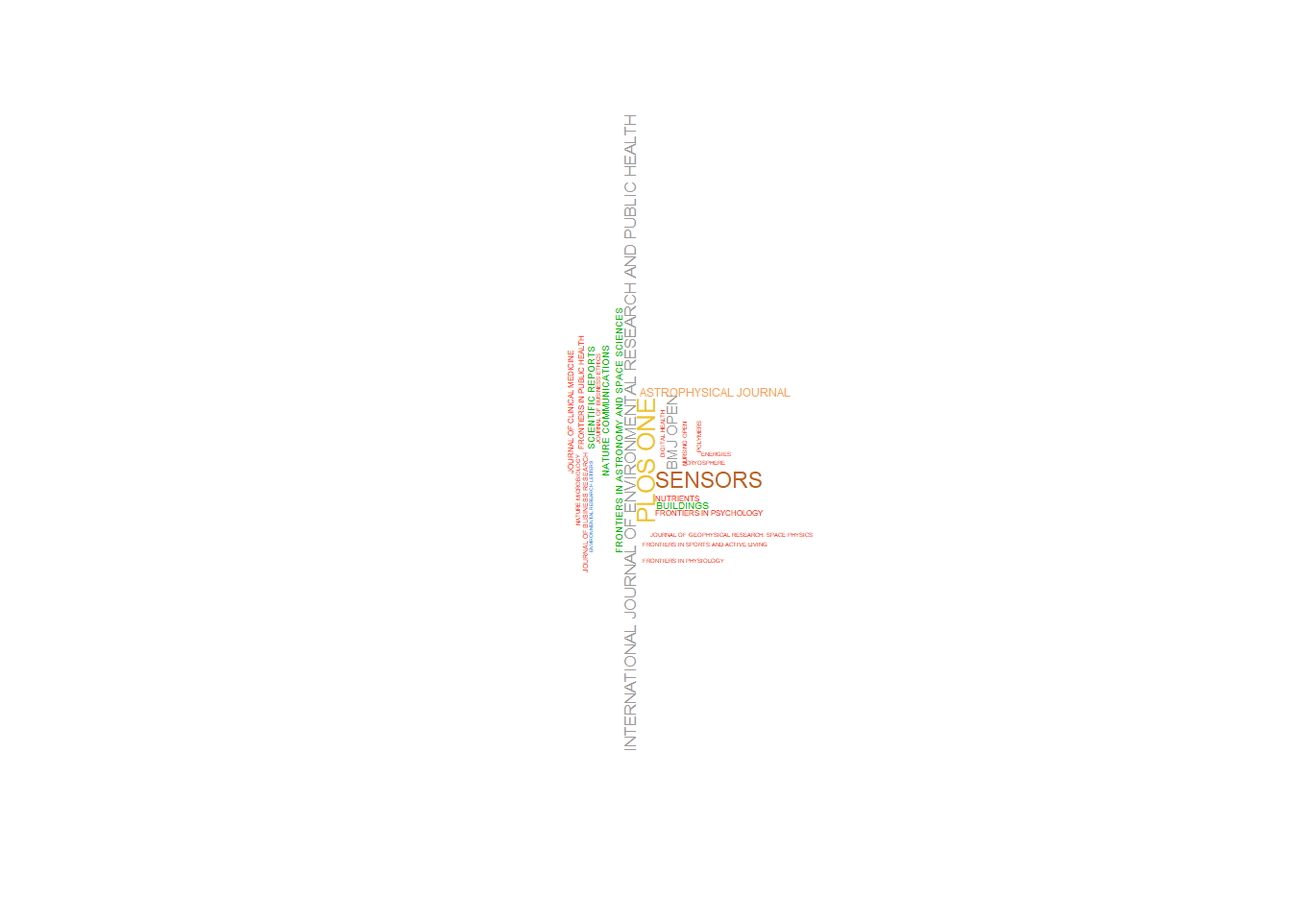
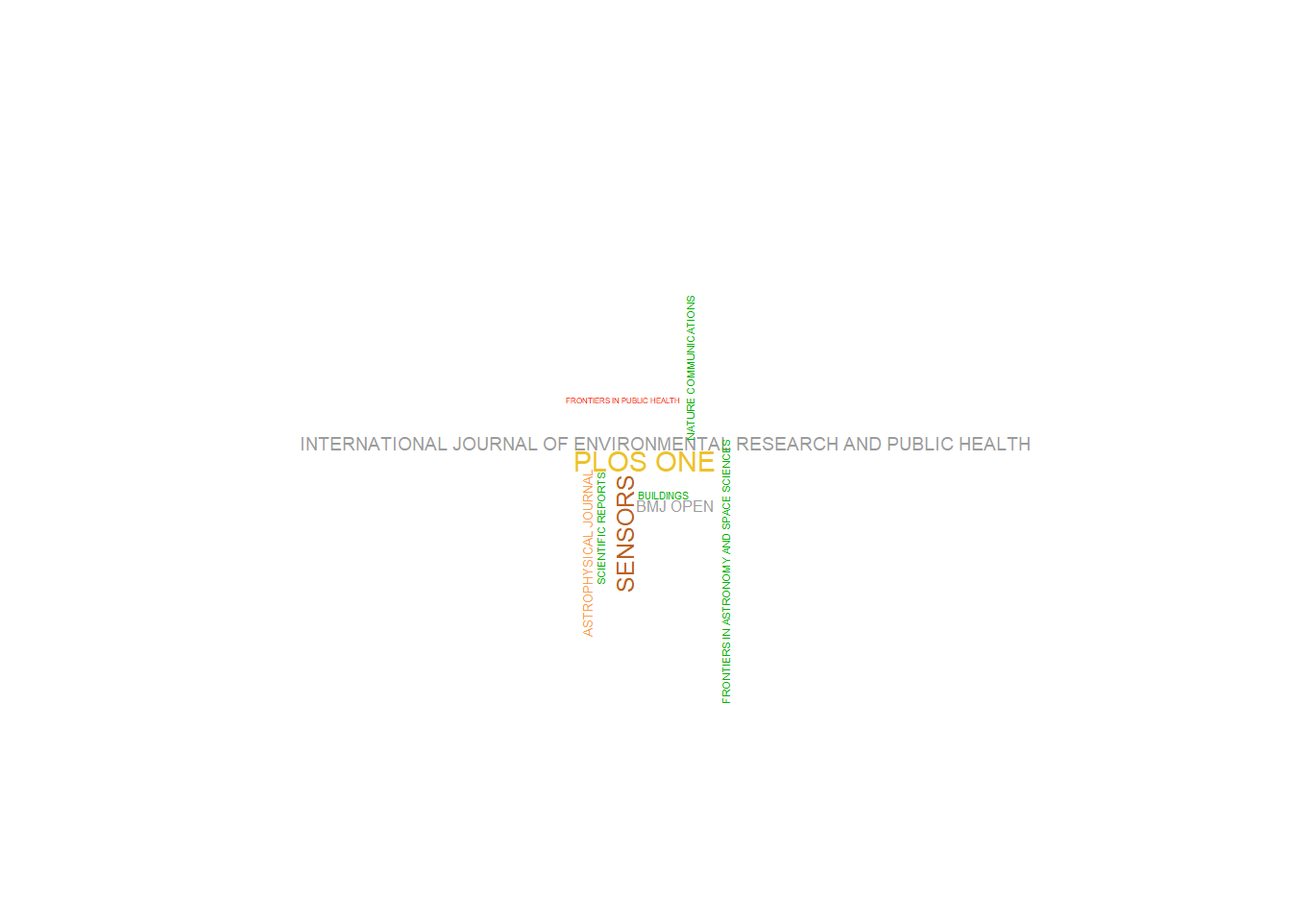
Editing wordclouds etc.

Changed region(s): [[0.2188, 0.2188, 0.8125, 0.6875], [0.4688, 0.6875, 0.5, 0.8125], [0.4688, 0.1562, 0.5, 0.1875]]

diff --git a/docs/Word Clouds.html b/docs/Word Clouds.html
@@ -178,7 +178,7 @@ code span.wa { color: #60a0b0; font-weight: bold; font-style: italic; } /* Warni
       <div>
       <div class="quarto-title-meta-heading">Modified</div>
       <div class="quarto-title-meta-contents">
-        <p class="date-modified">May 16, 2023</p>
+        <p class="date-modified">September 4, 2023</p>
       </div>
     </div>
       
@@ -242,6 +242,16 @@ code span.wa { color: #60a0b0; font-weight: bold; font-style: italic; } /* Warni
           <li class="sidebar-item">
   <div class="sidebar-item-container"> 
   <a href="./Network Attributes and Visualisations.html" class="sidebar-item-text sidebar-link">Network Attributes and Visualisations</a>
+  </div>
+</li>
+          <li class="sidebar-item">
+  <div class="sidebar-item-container"> 
+  <a href="./PLOS and OSF.html" class="sidebar-item-text sidebar-link">PLOS and OSF</a>
+  </div>
+</li>
+          <li class="sidebar-item">
+  <div class="sidebar-item-container"> 
+  <a href="./Description.html" class="sidebar-item-text sidebar-link">Summary</a>
   </div>
 </li>
       </ul>
@@ -413,7 +423,7 @@ code span.wa { color: #60a0b0; font-weight: bold; font-style: italic; } /* Warni
 <div class="sourceCode cell-code" id="cb3"><pre class="sourceCode r code-with-copy"><code class="sourceCode r"><span id="cb3-1"><a href="#cb3-1" aria-hidden="true" tabindex="-1"></a><span class="fu">set.seed</span>(<span class="dv">1404</span>)</span>
 <span id="cb3-2"><a href="#cb3-2" aria-hidden="true" tabindex="-1"></a></span>
 <span id="cb3-3"><a href="#cb3-3" aria-hidden="true" tabindex="-1"></a>DF_SO_table_all_oa_sorted <span class="ot">&lt;-</span> <span class="fu">as.data.frame</span>(SO_table_all_oa_sorted)</span>
-<span id="cb3-4"><a href="#cb3-4" aria-hidden="true" tabindex="-1"></a>wourdcloud_green_publications<span class="ot">&lt;-</span> <span class="fu">wordcloud</span>(<span class="at">words =</span> DF_SO_table_all_oa_sorted<span class="sc">$</span>Var1, <span class="at">freq =</span> DF_SO_table_all_oa_sorted<span class="sc">$</span>Freq, <span class="at">min.freq =</span> <span class="dv">1</span>, <span class="at">max.words=</span><span class="dv">25</span>, <span class="at">random.order=</span><span class="cn">FALSE</span>, <span class="at">scale=</span><span class="fu">c</span>(<span class="fl">1.2</span>,<span class="fl">0.05</span>), <span class="at">rot.per=</span><span class="fl">0.35</span>, <span class="at">colors =</span> <span class="fu">piratepal</span>(<span class="st">"xmen"</span>)) <span class="do">##Just the TOP 25</span></span></code><button title="Copy to Clipboard" class="code-copy-button"><i class="bi"></i></button></pre></div>
+<span id="cb3-4"><a href="#cb3-4" aria-hidden="true" tabindex="-1"></a>wordcloud_all_oa_publications<span class="ot">&lt;-</span> <span class="fu">wordcloud</span>(<span class="at">words =</span> DF_SO_table_all_oa_sorted<span class="sc">$</span>Var1, <span class="at">freq =</span> DF_SO_table_all_oa_sorted<span class="sc">$</span>Freq, <span class="at">min.freq =</span> <span class="dv">1</span>, <span class="at">max.words=</span><span class="dv">10</span>, <span class="at">random.order=</span><span class="cn">FALSE</span>, <span class="at">scale=</span><span class="fu">c</span>(<span class="fl">1.5</span>,<span class="fl">0.05</span>), <span class="at">rot.per=</span><span class="fl">0.35</span>, <span class="at">colors =</span> <span class="fu">piratepal</span>(<span class="st">"xmen"</span>)) <span class="do">##Just the TOP 10</span></span></code><button title="Copy to Clipboard" class="code-copy-button"><i class="bi"></i></button></pre></div>
 <div class="cell-output-display">
 <p><img src="Word-Clouds_files/figure-html/unnamed-chunk-22-1.png" class="img-fluid" width="672"></p>
 </div>
@@ -424,7 +434,7 @@ code span.wa { color: #60a0b0; font-weight: bold; font-style: italic; } /* Warni
 <h3 class="anchored" data-anchor-id="green"><strong>Green</strong></h3>
 <div class="cell">
 <div class="sourceCode cell-code" id="cb5"><pre class="sourceCode r code-with-copy"><code class="sourceCode r"><span id="cb5-1"><a href="#cb5-1" aria-hidden="true" tabindex="-1"></a>DF_SO_table_green_sorted <span class="ot">&lt;-</span> <span class="fu">as.data.frame</span>(SO_table_green_sorted)</span>
-<span id="cb5-2"><a href="#cb5-2" aria-hidden="true" tabindex="-1"></a>wourdcloud_green_publications<span class="ot">&lt;-</span> <span class="fu">wordcloud</span>(<span class="at">words =</span> DF_SO_table_green_sorted<span class="sc">$</span>Var1, <span class="at">freq =</span> DF_SO_table_green_sorted<span class="sc">$</span>Freq, <span class="at">min.freq =</span> <span class="dv">1</span>, <span class="at">max.words=</span><span class="dv">25</span>, <span class="at">random.order=</span><span class="cn">FALSE</span>, <span class="at">scale=</span><span class="fu">c</span>(<span class="fl">1.2</span>,<span class="fl">0.05</span>), <span class="at">rot.per=</span><span class="fl">0.35</span>, <span class="at">colors =</span> <span class="fu">piratepal</span>(<span class="st">"xmen"</span>)) <span class="do">##Just the TOP 25</span></span></code><button title="Copy to Clipboard" class="code-copy-button"><i class="bi"></i></button></pre></div>
+<span id="cb5-2"><a href="#cb5-2" aria-hidden="true" tabindex="-1"></a>wourdcloud_green_publications<span class="ot">&lt;-</span> <span class="fu">wordcloud</span>(<span class="at">words =</span> DF_SO_table_green_sorted<span class="sc">$</span>Var1, <span class="at">freq =</span> DF_SO_table_green_sorted<span class="sc">$</span>Freq, <span class="at">min.freq =</span> <span class="dv">1</span>, <span class="at">max.words=</span><span class="dv">10</span>, <span class="at">random.order=</span><span class="cn">FALSE</span>, <span class="at">scale=</span><span class="fu">c</span>(<span class="fl">1.3</span>,<span class="fl">0.05</span>), <span class="at">rot.per=</span><span class="fl">0.35</span>, <span class="at">colors =</span> <span class="fu">piratepal</span>(<span class="st">"xmen"</span>)) <span class="do">##Just the TOP 10</span></span></code><button title="Copy to Clipboard" class="code-copy-button"><i class="bi"></i></button></pre></div>
 <div class="cell-output-display">
 <p><img src="Word-Clouds_files/figure-html/unnamed-chunk-23-1.png" class="img-fluid" width="672"></p>
 </div>
@@ -435,7 +445,7 @@ code span.wa { color: #60a0b0; font-weight: bold; font-style: italic; } /* Warni
 <h3 class="anchored" data-anchor-id="green-final"><strong>Green Final</strong></h3>
 <div class="cell">
 <div class="sourceCode cell-code" id="cb7"><pre class="sourceCode r code-with-copy"><code class="sourceCode r"><span id="cb7-1"><a href="#cb7-1" aria-hidden="true" tabindex="-1"></a>DF_SO_table_green_final_sorted <span class="ot">&lt;-</span> <span class="fu">as.data.frame</span>(SO_table_green_final_sorted)</span>
-<span id="cb7-2"><a href="#cb7-2" aria-hidden="true" tabindex="-1"></a>wourdcloud_green_final_publications<span class="ot">&lt;-</span> <span class="fu">wordcloud</span>(<span class="at">words =</span> DF_SO_table_green_final_sorted<span class="sc">$</span>Var1, <span class="at">freq =</span> DF_SO_table_green_final_sorted<span class="sc">$</span>Freq, <span class="at">min.freq =</span> <span class="dv">1</span>, <span class="at">max.words=</span><span class="dv">25</span>, <span class="at">random.order=</span><span class="cn">FALSE</span>, <span class="at">scale=</span><span class="fu">c</span>(<span class="fl">0.8</span>,<span class="fl">0.05</span>), <span class="at">rot.per=</span><span class="fl">0.35</span>, <span class="at">colors =</span> <span class="fu">piratepal</span>(<span class="st">"xmen"</span>)) <span class="do">##Just the TOP 25</span></span></code><button title="Copy to Clipboard" class="code-copy-button"><i class="bi"></i></button></pre></div>
+<span id="cb7-2"><a href="#cb7-2" aria-hidden="true" tabindex="-1"></a>wourdcloud_green_final_publications<span class="ot">&lt;-</span> <span class="fu">wordcloud</span>(<span class="at">words =</span> DF_SO_table_green_final_sorted<span class="sc">$</span>Var1, <span class="at">freq =</span> DF_SO_table_green_final_sorted<span class="sc">$</span>Freq, <span class="at">min.freq =</span> <span class="dv">1</span>, <span class="at">max.words=</span><span class="dv">10</span>, <span class="at">random.order=</span><span class="cn">FALSE</span>, <span class="at">scale=</span><span class="fu">c</span>(<span class="fl">0.9</span>,<span class="fl">0.05</span>), <span class="at">rot.per=</span><span class="fl">0.35</span>, <span class="at">colors =</span> <span class="fu">piratepal</span>(<span class="st">"xmen"</span>)) <span class="do">##Just the TOP 10</span></span></code><button title="Copy to Clipboard" class="code-copy-button"><i class="bi"></i></button></pre></div>
 <div class="cell-output-display">
 <p><img src="Word-Clouds_files/figure-html/unnamed-chunk-24-1.png" class="img-fluid" width="672"></p>
 </div>
@@ -446,7 +456,7 @@ code span.wa { color: #60a0b0; font-weight: bold; font-style: italic; } /* Warni
 <h3 class="anchored" data-anchor-id="green-accepted"><strong>Green Accepted</strong></h3>
 <div class="cell">
 <div class="sourceCode cell-code" id="cb9"><pre class="sourceCode r code-with-copy"><code class="sourceCode r"><span id="cb9-1"><a href="#cb9-1" aria-hidden="true" tabindex="-1"></a>DF_SO_table_green_accepted_sorted <span class="ot">&lt;-</span> <span class="fu">as.data.frame</span>(SO_table_green_accepted_sorted)</span>
-<span id="cb9-2"><a href="#cb9-2" aria-hidden="true" tabindex="-1"></a>wourdcloud_green_accepted_publications<span class="ot">&lt;-</span> <span class="fu">wordcloud</span>(<span class="at">words =</span> DF_SO_table_green_accepted_sorted<span class="sc">$</span>Var1, <span class="at">freq =</span> DF_SO_table_green_accepted_sorted<span class="sc">$</span>Freq, <span class="at">min.freq =</span> <span class="dv">1</span>, <span class="at">max.words=</span><span class="dv">25</span>, <span class="at">random.order=</span><span class="cn">FALSE</span>, <span class="at">scale=</span><span class="fu">c</span>(<span class="fl">0.8</span>,<span class="fl">0.05</span>), <span class="at">rot.per=</span><span class="fl">0.35</span>, <span class="at">colors =</span> <span class="fu">piratepal</span>(<span class="st">"xmen"</span>)) <span class="do">##Just the TOP 25</span></span></code><button title="Copy to Clipboard" class="code-copy-button"><i class="bi"></i></button></pre></div>
+<span id="cb9-2"><a href="#cb9-2" aria-hidden="true" tabindex="-1"></a>wourdcloud_green_accepted_publications<span class="ot">&lt;-</span> <span class="fu">wordcloud</span>(<span class="at">words =</span> DF_SO_table_green_accepted_sorted<span class="sc">$</span>Var1, <span class="at">freq =</span> DF_SO_table_green_accepted_sorted<span class="sc">$</span>Freq, <span class="at">min.freq =</span> <span class="dv">1</span>, <span class="at">max.words=</span><span class="dv">10</span>, <span class="at">random.order=</span><span class="cn">FALSE</span>, <span class="at">scale=</span><span class="fu">c</span>(<span class="fl">0.8</span>,<span class="fl">0.05</span>), <span class="at">rot.per=</span><span class="fl">0.35</span>, <span class="at">colors =</span> <span class="fu">piratepal</span>(<span class="st">"xmen"</span>)) <span class="do">##Just the TOP 10</span></span></code><button title="Copy to Clipboard" class="code-copy-button"><i class="bi"></i></button></pre></div>
 <div class="cell-output-display">
 <p><img src="Word-Clouds_files/figure-html/unnamed-chunk-25-1.png" class="img-fluid" width="672"></p>
 </div>
@@ -457,7 +467,7 @@ code span.wa { color: #60a0b0; font-weight: bold; font-style: italic; } /* Warni
 <h3 class="anchored" data-anchor-id="not-green"><strong>Not Green</strong></h3>
 <div class="cell">
 <div class="sourceCode cell-code" id="cb11"><pre class="sourceCode r code-with-copy"><code class="sourceCode r"><span id="cb11-1"><a href="#cb11-1" aria-hidden="true" tabindex="-1"></a>DF_SO_table_not_green_sorted <span class="ot">&lt;-</span> <span class="fu">as.data.frame</span>(SO_table_not_green_sorted)</span>
-<span id="cb11-2"><a href="#cb11-2" aria-hidden="true" tabindex="-1"></a>wourdcloud_not_green_publications<span class="ot">&lt;-</span> <span class="fu">wordcloud</span>(<span class="at">words =</span> DF_SO_table_not_green_sorted<span class="sc">$</span>Var1, <span class="at">freq =</span> DF_SO_table_not_green_sorted<span class="sc">$</span>Freq, <span class="at">min.freq =</span> <span class="dv">1</span>, <span class="at">max.words=</span><span class="dv">25</span>, <span class="at">random.order=</span><span class="cn">FALSE</span>, <span class="at">scale=</span><span class="fu">c</span>(.<span class="dv">25</span>,<span class="fl">0.25</span>), <span class="at">rot.per=</span><span class="fl">0.35</span>, <span class="at">colors =</span> <span class="fu">piratepal</span>(<span class="st">"xmen"</span>)) <span class="do">##Just the TOP 25</span></span></code><button title="Copy to Clipboard" class="code-copy-button"><i class="bi"></i></button></pre></div>
+<span id="cb11-2"><a href="#cb11-2" aria-hidden="true" tabindex="-1"></a>wourdcloud_not_green_publications<span class="ot">&lt;-</span> <span class="fu">wordcloud</span>(<span class="at">words =</span> DF_SO_table_not_green_sorted<span class="sc">$</span>Var1, <span class="at">freq =</span> DF_SO_table_not_green_sorted<span class="sc">$</span>Freq, <span class="at">min.freq =</span> <span class="dv">1</span>, <span class="at">max.words=</span><span class="dv">10</span>, <span class="at">random.order=</span><span class="cn">FALSE</span>, <span class="at">scale=</span><span class="fu">c</span>(.<span class="dv">25</span>,<span class="fl">0.25</span>), <span class="at">rot.per=</span><span class="fl">0.35</span>, <span class="at">colors =</span> <span class="fu">piratepal</span>(<span class="st">"xmen"</span>)) <span class="do">##Just the TOP 10</span></span></code><button title="Copy to Clipboard" class="code-copy-button"><i class="bi"></i></button></pre></div>
 <div class="cell-output-display">
 <p><img src="Word-Clouds_files/figure-html/unnamed-chunk-26-1.png" class="img-fluid" width="672"></p>
 </div>
@@ -471,7 +481,7 @@ code span.wa { color: #60a0b0; font-weight: bold; font-style: italic; } /* Warni
 <h3 class="anchored" data-anchor-id="all-open-access-1"><strong>All Open Access</strong></h3>
 <div class="cell">
 <div class="sourceCode cell-code" id="cb13"><pre class="sourceCode r code-with-copy"><code class="sourceCode r"><span id="cb13-1"><a href="#cb13-1" aria-hidden="true" tabindex="-1"></a>df_corr_table_all_oa_sorted <span class="ot">&lt;-</span> <span class="fu">as.data.frame</span>(corr_table_all_oa_sorted)</span>
-<span id="cb13-2"><a href="#cb13-2" aria-hidden="true" tabindex="-1"></a>wourdcloud_all_oa_publications<span class="ot">&lt;-</span> <span class="fu">wordcloud</span>(<span class="at">words =</span> df_corr_table_all_oa_sorted<span class="sc">$</span>Var1, <span class="at">freq =</span> df_corr_table_all_oa_sorted<span class="sc">$</span>Freq, <span class="at">min.freq =</span> <span class="dv">1</span>, <span class="at">max.words=</span><span class="dv">50</span>, <span class="at">random.order=</span><span class="cn">FALSE</span>, <span class="at">scale=</span><span class="fu">c</span>(<span class="dv">1</span>, <span class="dv">1</span>), <span class="at">rot.per=</span><span class="fl">0.35</span>, <span class="at">colors =</span> <span class="fu">piratepal</span>(<span class="st">"xmen"</span>)) <span class="do">##Just the TOP 50</span></span></code><button title="Copy to Clipboard" class="code-copy-button"><i class="bi"></i></button></pre></div>
+<span id="cb13-2"><a href="#cb13-2" aria-hidden="true" tabindex="-1"></a>wourdcloud_all_oa_publications<span class="ot">&lt;-</span> <span class="fu">wordcloud</span>(<span class="at">words =</span> df_corr_table_all_oa_sorted<span class="sc">$</span>Var1, <span class="at">freq =</span> df_corr_table_all_oa_sorted<span class="sc">$</span>Freq, <span class="at">min.freq =</span> <span class="dv">1</span>, <span class="at">max.words=</span><span class="dv">10</span>, <span class="at">random.order=</span><span class="cn">FALSE</span>, <span class="at">scale=</span><span class="fu">c</span>(<span class="dv">1</span>, <span class="dv">1</span>), <span class="at">rot.per=</span><span class="fl">0.35</span>, <span class="at">colors =</span> <span class="fu">piratepal</span>(<span class="st">"xmen"</span>)) <span class="do">##Just the TOP 10</span></span></code><button title="Copy to Clipboard" class="code-copy-button"><i class="bi"></i></button></pre></div>
 <div class="cell-output-display">
 <p><img src="Word-Clouds_files/figure-html/unnamed-chunk-27-1.png" class="img-fluid" width="672"></p>
 </div>
@@ -481,7 +491,7 @@ code span.wa { color: #60a0b0; font-weight: bold; font-style: italic; } /* Warni
 <h3 class="anchored" data-anchor-id="green-1"><strong>Green</strong></h3>
 <div class="cell">
 <div class="sourceCode cell-code" id="cb14"><pre class="sourceCode r code-with-copy"><code class="sourceCode r"><span id="cb14-1"><a href="#cb14-1" aria-hidden="true" tabindex="-1"></a>df_corr_table_green_sorted <span class="ot">&lt;-</span> <span class="fu">as.data.frame</span>(corr_table_green_sorted)</span>
-<span id="cb14-2"><a href="#cb14-2" aria-hidden="true" tabindex="-1"></a>wourdcloud_green_publications<span class="ot">&lt;-</span> <span class="fu">wordcloud</span>(<span class="at">words =</span> df_corr_table_green_sorted<span class="sc">$</span>Var1, <span class="at">freq =</span> df_corr_table_green_sorted<span class="sc">$</span>Freq, <span class="at">min.freq =</span> <span class="dv">1</span>, <span class="at">max.words=</span><span class="dv">50</span>, <span class="at">random.order=</span><span class="cn">FALSE</span>, <span class="at">scale=</span><span class="fu">c</span>(<span class="dv">1</span>, <span class="dv">1</span>), <span class="at">rot.per=</span><span class="fl">0.35</span>, <span class="at">colors =</span> <span class="fu">piratepal</span>(<span class="st">"xmen"</span>)) <span class="do">##Just the TOP 50</span></span></code><button title="Copy to Clipboard" class="code-copy-button"><i class="bi"></i></button></pre></div>
+<span id="cb14-2"><a href="#cb14-2" aria-hidden="true" tabindex="-1"></a>wourdcloud_green_publications<span class="ot">&lt;-</span> <span class="fu">wordcloud</span>(<span class="at">words =</span> df_corr_table_green_sorted<span class="sc">$</span>Var1, <span class="at">freq =</span> df_corr_table_green_sorted<span class="sc">$</span>Freq, <span class="at">min.freq =</span> <span class="dv">1</span>, <span class="at">max.words=</span><span class="dv">10</span>, <span class="at">random.order=</span><span class="cn">FALSE</span>, <span class="at">scale=</span><span class="fu">c</span>(<span class="dv">1</span>, <span class="dv">1</span>), <span class="at">rot.per=</span><span class="fl">0.35</span>, <span class="at">colors =</span> <span class="fu">piratepal</span>(<span class="st">"xmen"</span>)) <span class="do">##Just the TOP 10</span></span></code><button title="Copy to Clipboard" class="code-copy-button"><i class="bi"></i></button></pre></div>
 <div class="cell-output-display">
 <p><img src="Word-Clouds_files/figure-html/unnamed-chunk-28-1.png" class="img-fluid" width="672"></p>
 </div>
@@ -491,7 +501,7 @@ code span.wa { color: #60a0b0; font-weight: bold; font-style: italic; } /* Warni
 <h3 class="anchored" data-anchor-id="green-final-1"><strong>Green Final</strong></h3>
 <div class="cell">
 <div class="sourceCode cell-code" id="cb15"><pre class="sourceCode r code-with-copy"><code class="sourceCode r"><span id="cb15-1"><a href="#cb15-1" aria-hidden="true" tabindex="-1"></a>df_corr_table_green_final_sorted <span class="ot">&lt;-</span> <span class="fu">as.data.frame</span>(corr_table_green_final_sorted)</span>
-<span id="cb15-2"><a href="#cb15-2" aria-hidden="true" tabindex="-1"></a>wourdcloud_green_final_publications<span class="ot">&lt;-</span> <span class="fu">wordcloud</span>(<span class="at">words =</span> df_corr_table_green_final_sorted<span class="sc">$</span>Var1, <span class="at">freq =</span> df_corr_table_green_final_sorted<span class="sc">$</span>Freq, <span class="at">min.freq =</span> <span class="dv">1</span>, <span class="at">max.words=</span><span class="dv">50</span>, <span class="at">random.order=</span><span class="cn">FALSE</span>, <span class="at">scale=</span><span class="fu">c</span>(<span class="dv">1</span>, <span class="dv">1</span>), <span class="at">rot.per=</span><span class="fl">0.35</span>, <span class="at">colors =</span> <span class="fu">piratepal</span>(<span class="st">"xmen"</span>)) <span class="do">##Just the TOP 50</span></span></code><button title="Copy to Clipboard" class="code-copy-button"><i class="bi"></i></button></pre></div>
+<span id="cb15-2"><a href="#cb15-2" aria-hidden="true" tabindex="-1"></a>wourdcloud_green_final_publications<span class="ot">&lt;-</span> <span class="fu">wordcloud</span>(<span class="at">words =</span> df_corr_table_green_final_sorted<span class="sc">$</span>Var1, <span class="at">freq =</span> df_corr_table_green_final_sorted<span class="sc">$</span>Freq, <span class="at">min.freq =</span> <span class="dv">1</span>, <span class="at">max.words=</span><span class="dv">10</span>, <span class="at">random.order=</span><span class="cn">FALSE</span>, <span class="at">scale=</span><span class="fu">c</span>(<span class="dv">1</span>, <span class="dv">1</span>), <span class="at">rot.per=</span><span class="fl">0.35</span>, <span class="at">colors =</span> <span class="fu">piratepal</span>(<span class="st">"xmen"</span>)) <span class="do">##Just the TOP 10</span></span></code><button title="Copy to Clipboard" class="code-copy-button"><i class="bi"></i></button></pre></div>
 <div class="cell-output-display">
 <p><img src="Word-Clouds_files/figure-html/unnamed-chunk-29-1.png" class="img-fluid" width="672"></p>
 </div>
@@ -501,7 +511,7 @@ code span.wa { color: #60a0b0; font-weight: bold; font-style: italic; } /* Warni
 <h3 class="anchored" data-anchor-id="green-accepted-1"><strong>Green Accepted</strong></h3>
 <div class="cell">
 <div class="sourceCode cell-code" id="cb16"><pre class="sourceCode r code-with-copy"><code class="sourceCode r"><span id="cb16-1"><a href="#cb16-1" aria-hidden="true" tabindex="-1"></a>df_corr_table_green_accepted_sorted <span class="ot">&lt;-</span> <span class="fu">as.data.frame</span>(corr_table_green_accepted_sorted)</span>
-<span id="cb16-2"><a href="#cb16-2" aria-hidden="true" tabindex="-1"></a>wourdcloud_green_publications<span class="ot">&lt;-</span> <span class="fu">wordcloud</span>(<span class="at">words =</span> df_corr_table_green_accepted_sorted<span class="sc">$</span>Var1, <span class="at">freq =</span> df_corr_table_green_accepted_sorted<span class="sc">$</span>Freq, <span class="at">min.freq =</span> <span class="dv">1</span>, <span class="at">max.words=</span><span class="dv">50</span>, <span class="at">random.order=</span><span class="cn">FALSE</span>, <span class="at">scale=</span><span class="fu">c</span>(<span class="dv">1</span>, <span class="dv">1</span>), <span class="at">rot.per=</span><span class="fl">0.35</span>, <span class="at">colors =</span> <span class="fu">piratepal</span>(<span class="st">"xmen"</span>)) <span class="do">##Just the TOP 50</span></span></code><button title="Copy to Clipboard" class="code-copy-button"><i class="bi"></i></button></pre></div>
+<span id="cb16-2"><a href="#cb16-2" aria-hidden="true" tabindex="-1"></a>wourdcloud_green_publications<span class="ot">&lt;-</span> <span class="fu">wordcloud</span>(<span class="at">words =</span> df_corr_table_green_accepted_sorted<span class="sc">$</span>Var1, <span class="at">freq =</span> df_corr_table_green_accepted_sorted<span class="sc">$</span>Freq, <span class="at">min.freq =</span> <span class="dv">1</span>, <span class="at">max.words=</span><span class="dv">10</span>, <span class="at">random.order=</span><span class="cn">FALSE</span>, <span class="at">scale=</span><span class="fu">c</span>(<span class="dv">1</span>, <span class="dv">1</span>), <span class="at">rot.per=</span><span class="fl">0.35</span>, <span class="at">colors =</span> <span class="fu">piratepal</span>(<span class="st">"xmen"</span>)) <span class="do">##Just the TOP 10</span></span></code><button title="Copy to Clipboard" class="code-copy-button"><i class="bi"></i></button></pre></div>
 <div class="cell-output-display">
 <p><img src="Word-Clouds_files/figure-html/unnamed-chunk-30-1.png" class="img-fluid" width="672"></p>
 </div>
@@ -511,7 +521,7 @@ code span.wa { color: #60a0b0; font-weight: bold; font-style: italic; } /* Warni
 <h3 class="anchored" data-anchor-id="not-green-1"><strong>Not Green</strong></h3>
 <div class="cell">
 <div class="sourceCode cell-code" id="cb17"><pre class="sourceCode r code-with-copy"><code class="sourceCode r"><span id="cb17-1"><a href="#cb17-1" aria-hidden="true" tabindex="-1"></a>df_corr_table_not_green_sorted <span class="ot">&lt;-</span> <span class="fu">as.data.frame</span>(corr_table_not_green_sorted)</span>
-<span id="cb17-2"><a href="#cb17-2" aria-hidden="true" tabindex="-1"></a>wourdcloud_not_green_publications<span class="ot">&lt;-</span> <span class="fu">wordcloud</span>(<span class="at">words =</span> df_corr_table_not_green_sorted<span class="sc">$</span>Var1, <span class="at">freq =</span> df_corr_table_not_green_sorted<span class="sc">$</span>Freq, <span class="at">min.freq =</span> <span class="dv">1</span>, <span class="at">max.words=</span><span class="dv">50</span>, <span class="at">random.order=</span><span class="cn">FALSE</span>, <span class="at">scale=</span><span class="fu">c</span>(<span class="dv">1</span>, <span class="dv">1</span>), <span class="at">rot.per=</span><span class="fl">0.35</span>, <span class="at">colors =</span> <span class="fu">piratepal</span>(<span class="st">"xmen"</span>)) <span class="do">##Just the TOP 50</span></span></code><button title="Copy to Clipboard" class="code-copy-button"><i class="bi"></i></button></pre></div>
+<span id="cb17-2"><a href="#cb17-2" aria-hidden="true" tabindex="-1"></a>wourdcloud_not_green_publications<span class="ot">&lt;-</span> <span class="fu">wordcloud</span>(<span class="at">words =</span> df_corr_table_not_green_sorted<span class="sc">$</span>Var1, <span class="at">freq =</span> df_corr_table_not_green_sorted<span class="sc">$</span>Freq, <span class="at">min.freq =</span> <span class="dv">1</span>, <span class="at">max.words=</span><span class="dv">10</span>, <span class="at">random.order=</span><span class="cn">FALSE</span>, <span class="at">scale=</span><span class="fu">c</span>(<span class="dv">1</span>, <span class="dv">1</span>), <span class="at">rot.per=</span><span class="fl">0.35</span>, <span class="at">colors =</span> <span class="fu">piratepal</span>(<span class="st">"xmen"</span>)) <span class="do">##Just the TOP 10</span></span></code><button title="Copy to Clipboard" class="code-copy-button"><i class="bi"></i></button></pre></div>
 <div class="cell-output-display">
 <p><img src="Word-Clouds_files/figure-html/unnamed-chunk-31-1.png" class="img-fluid" width="672"></p>
 </div>
@@ -528,7 +538,7 @@ code span.wa { color: #60a0b0; font-weight: bold; font-style: italic; } /* Warni
 <span id="cb18-3"><a href="#cb18-3" aria-hidden="true" tabindex="-1"></a>  <span class="fu">count</span>(DE)</span>
 <span id="cb18-4"><a href="#cb18-4" aria-hidden="true" tabindex="-1"></a>all_oa_keywords<span class="ot">&lt;-</span> <span class="fu">na.omit</span>(all_oa_keywords)</span>
 <span id="cb18-5"><a href="#cb18-5" aria-hidden="true" tabindex="-1"></a><span class="fu">colnames</span>(all_oa_keywords)[<span class="dv">2</span>]<span class="ot">&lt;-</span> <span class="st">"Freq"</span></span>
-<span id="cb18-6"><a href="#cb18-6" aria-hidden="true" tabindex="-1"></a>wourdcloud_just_all_oa_keywords<span class="ot">&lt;-</span> <span class="fu">wordcloud</span>(<span class="at">words =</span> all_oa_keywords<span class="sc">$</span>DE, <span class="at">freq =</span> all_oa_keywords<span class="sc">$</span>Freq, <span class="at">min.freq =</span> <span class="dv">1</span>, <span class="at">max.words=</span><span class="dv">50</span>, <span class="at">random.order=</span><span class="cn">FALSE</span>, <span class="at">scale=</span><span class="fu">c</span>(<span class="fl">1.5</span>,<span class="fl">0.25</span>), <span class="at">rot.per=</span><span class="fl">0.35</span>, <span class="at">colors =</span> <span class="fu">piratepal</span>(<span class="st">"xmen"</span>)) <span class="do">##Just the TOP 50</span></span></code><button title="Copy to Clipboard" class="code-copy-button"><i class="bi"></i></button></pre></div>
+<span id="cb18-6"><a href="#cb18-6" aria-hidden="true" tabindex="-1"></a>wourdcloud_just_all_oa_keywords<span class="ot">&lt;-</span> <span class="fu">wordcloud</span>(<span class="at">words =</span> all_oa_keywords<span class="sc">$</span>DE, <span class="at">freq =</span> all_oa_keywords<span class="sc">$</span>Freq, <span class="at">min.freq =</span> <span class="dv">1</span>, <span class="at">max.words=</span><span class="dv">10</span>, <span class="at">random.order=</span><span class="cn">FALSE</span>, <span class="at">scale=</span><span class="fu">c</span>(<span class="fl">1.5</span>,<span class="fl">0.25</span>), <span class="at">rot.per=</span><span class="fl">0.35</span>, <span class="at">colors =</span> <span class="fu">piratepal</span>(<span class="st">"xmen"</span>)) <span class="do">##Just the TOP 10</span></span></code><button title="Copy to Clipboard" class="code-copy-button"><i class="bi"></i></button></pre></div>
 <div class="cell-output-display">
 <p><img src="Word-Clouds_files/figure-html/unnamed-chunk-32-1.png" class="img-fluid" width="672"></p>
 </div>
@@ -542,7 +552,7 @@ code span.wa { color: #60a0b0; font-weight: bold; font-style: italic; } /* Warni
 <span id="cb19-3"><a href="#cb19-3" aria-hidden="true" tabindex="-1"></a>  <span class="fu">count</span>(DE)</span>
 <span id="cb19-4"><a href="#cb19-4" aria-hidden="true" tabindex="-1"></a>green_keywords<span class="ot">&lt;-</span> <span class="fu">na.omit</span>(green_keywords)</span>
 <span id="cb19-5"><a href="#cb19-5" aria-hidden="true" tabindex="-1"></a><span class="fu">colnames</span>(green_keywords)[<span class="dv">2</span>]<span class="ot">&lt;-</span> <span class="st">"Freq"</span></span>
-<span id="cb19-6"><a href="#cb19-6" aria-hidden="true" tabindex="-1"></a>wourdcloud_just_green_keywords<span class="ot">&lt;-</span> <span class="fu">wordcloud</span>(<span class="at">words =</span> green_keywords<span class="sc">$</span>DE, <span class="at">freq =</span> green_keywords<span class="sc">$</span>Freq, <span class="at">min.freq =</span> <span class="dv">1</span>, <span class="at">max.words=</span><span class="dv">50</span>, <span class="at">random.order=</span><span class="cn">FALSE</span>, <span class="at">scale=</span><span class="fu">c</span>(<span class="fl">1.5</span>,<span class="fl">0.25</span>), <span class="at">rot.per=</span><span class="fl">0.35</span>, <span class="at">colors =</span> <span class="fu">piratepal</span>(<span class="st">"xmen"</span>)) <span class="do">##Just the TOP 50</span></span></code><button title="Copy to Clipboard" class="code-copy-button"><i class="bi"></i></button></pre></div>
+<span id="cb19-6"><a href="#cb19-6" aria-hidden="true" tabindex="-1"></a>wourdcloud_just_green_keywords<span class="ot">&lt;-</span> <span class="fu">wordcloud</span>(<span class="at">words =</span> green_keywords<span class="sc">$</span>DE, <span class="at">freq =</span> green_keywords<span class="sc">$</span>Freq, <span class="at">min.freq =</span> <span class="dv">1</span>, <span class="at">max.words=</span><span class="dv">10</span>, <span class="at">random.order=</span><span class="cn">FALSE</span>, <span class="at">scale=</span><span class="fu">c</span>(<span class="fl">1.5</span>,<span class="fl">0.25</span>), <span class="at">rot.per=</span><span class="fl">0.35</span>, <span class="at">colors =</span> <span class="fu">piratepal</span>(<span class="st">"xmen"</span>)) <span class="do">##Just the TOP 10</span></span></code><button title="Copy to Clipboard" class="code-copy-button"><i class="bi"></i></button></pre></div>
 <div class="cell-output-display">
 <p><img src="Word-Clouds_files/figure-html/unnamed-chunk-33-1.png" class="img-fluid" width="672"></p>
 </div>
@@ -556,7 +566,7 @@ code span.wa { color: #60a0b0; font-weight: bold; font-style: italic; } /* Warni
 <span id="cb20-3"><a href="#cb20-3" aria-hidden="true" tabindex="-1"></a>  <span class="fu">count</span>(DE)</span>
 <span id="cb20-4"><a href="#cb20-4" aria-hidden="true" tabindex="-1"></a>green_final_keywords<span class="ot">&lt;-</span> <span class="fu">na.omit</span>(green_final_keywords)</span>
 <span id="cb20-5"><a href="#cb20-5" aria-hidden="true" tabindex="-1"></a><span class="fu">colnames</span>(green_final_keywords)[<span class="dv">2</span>]<span class="ot">&lt;-</span> <span class="st">"Freq"</span></span>
-<span id="cb20-6"><a href="#cb20-6" aria-hidden="true" tabindex="-1"></a>wourdcloud_just_green_final_keywords<span class="ot">&lt;-</span> <span class="fu">wordcloud</span>(<span class="at">words =</span> green_final_keywords<span class="sc">$</span>DE, <span class="at">freq =</span> green_final_keywords<span class="sc">$</span>Freq, <span class="at">min.freq =</span> <span class="dv">1</span>, <span class="at">max.words=</span><span class="dv">50</span>, <span class="at">random.order=</span><span class="cn">FALSE</span>, <span class="at">scale=</span><span class="fu">c</span>(<span class="fl">1.5</span>,<span class="fl">0.25</span>), <span class="at">rot.per=</span><span class="fl">0.35</span>, <span class="at">colors =</span> <span class="fu">piratepal</span>(<span class="st">"xmen"</span>)) <span class="do">##Just the TOP 50</span></span></code><button title="Copy to Clipboard" class="code-copy-button"><i class="bi"></i></button></pre></div>
+<span id="cb20-6"><a href="#cb20-6" aria-hidden="true" tabindex="-1"></a>wourdcloud_just_green_final_keywords<span class="ot">&lt;-</span> <span class="fu">wordcloud</span>(<span class="at">words =</span> green_final_keywords<span class="sc">$</span>DE, <span class="at">freq =</span> green_final_keywords<span class="sc">$</span>Freq, <span class="at">min.freq =</span> <span class="dv">1</span>, <span class="at">max.words=</span><span class="dv">10</span>, <span class="at">random.order=</span><span class="cn">FALSE</span>, <span class="at">scale=</span><span class="fu">c</span>(<span class="fl">1.5</span>,<span class="fl">0.25</span>), <span class="at">rot.per=</span><span class="fl">0.35</span>, <span class="at">colors =</span> <span class="fu">piratepal</span>(<span class="st">"xmen"</span>)) <span class="do">##Just the TOP 10</span></span></code><button title="Copy to Clipboard" class="code-copy-button"><i class="bi"></i></button></pre></div>
 <div class="cell-output-display">
 <p><img src="Word-Clouds_files/figure-html/unnamed-chunk-34-1.png" class="img-fluid" width="672"></p>
 </div>
@@ -570,7 +580,7 @@ code span.wa { color: #60a0b0; font-weight: bold; font-style: italic; } /* Warni
 <span id="cb21-3"><a href="#cb21-3" aria-hidden="true" tabindex="-1"></a>  <span class="fu">count</span>(DE)</span>
 <span id="cb21-4"><a href="#cb21-4" aria-hidden="true" tabindex="-1"></a>green_accepted_keywords<span class="ot">&lt;-</span> <span class="fu">na.omit</span>(green_accepted_keywords)</span>
 <span id="cb21-5"><a href="#cb21-5" aria-hidden="true" tabindex="-1"></a><span class="fu">colnames</span>(green_accepted_keywords)[<span class="dv">2</span>]<span class="ot">&lt;-</span> <span class="st">"Freq"</span></span>
-<span id="cb21-6"><a href="#cb21-6" aria-hidden="true" tabindex="-1"></a>wourdcloud_just_green_accepted_keywords<span class="ot">&lt;-</span> <span class="fu">wordcloud</span>(<span class="at">words =</span> green_accepted_keywords<span class="sc">$</span>DE, <span class="at">freq =</span> green_accepted_keywords<span class="sc">$</span>Freq, <span class="at">min.freq =</span> <span class="dv">1</span>, <span class="at">max.words=</span><span class="dv">50</span>, <span class="at">random.order=</span><span class="cn">FALSE</span>, <span class="at">scale=</span><span class="fu">c</span>(<span class="fl">1.5</span>,<span class="fl">0.25</span>), <span class="at">rot.per=</span><span class="fl">0.35</span>, <span class="at">colors =</span> <span class="fu">piratepal</span>(<span class="st">"xmen"</span>)) <span class="do">##Just the TOP 50</span></span></code><button title="Copy to Clipboard" class="code-copy-button"><i class="bi"></i></button></pre></div>
+<span id="cb21-6"><a href="#cb21-6" aria-hidden="true" tabindex="-1"></a>wourdcloud_just_green_accepted_keywords<span class="ot">&lt;-</span> <span class="fu">wordcloud</span>(<span class="at">words =</span> green_accepted_keywords<span class="sc">$</span>DE, <span class="at">freq =</span> green_accepted_keywords<span class="sc">$</span>Freq, <span class="at">min.freq =</span> <span class="dv">1</span>, <span class="at">max.words=</span><span class="dv">10</span>, <span class="at">random.order=</span><span class="cn">FALSE</span>, <span class="at">scale=</span><span class="fu">c</span>(<span class="fl">1.5</span>,<span class="fl">0.25</span>), <span class="at">rot.per=</span><span class="fl">0.35</span>, <span class="at">colors =</span> <span class="fu">piratepal</span>(<span class="st">"xmen"</span>)) <span class="do">##Just the TOP 10</span></span></code><button title="Copy to Clipboard" class="code-copy-button"><i class="bi"></i></button></pre></div>
 <div class="cell-output-display">
 <p><img src="Word-Clouds_files/figure-html/unnamed-chunk-35-1.png" class="img-fluid" width="672"></p>
 </div>
@@ -584,7 +594,7 @@ code span.wa { color: #60a0b0; font-weight: bold; font-style: italic; } /* Warni
 <span id="cb22-3"><a href="#cb22-3" aria-hidden="true" tabindex="-1"></a>  <span class="fu">count</span>(DE)</span>
 <span id="cb22-4"><a href="#cb22-4" aria-hidden="true" tabindex="-1"></a>not_green_keywords<span class="ot">&lt;-</span> <span class="fu">na.omit</span>(not_green_keywords)</span>
 <span id="cb22-5"><a href="#cb22-5" aria-hidden="true" tabindex="-1"></a><span class="fu">colnames</span>(not_green_keywords)[<span class="dv">2</span>]<span class="ot">&lt;-</span> <span class="st">"Freq"</span></span>
-<span id="cb22-6"><a href="#cb22-6" aria-hidden="true" tabindex="-1"></a>wourdcloud_just_not_green_keywords<span class="ot">&lt;-</span> <span class="fu">wordcloud</span>(<span class="at">words =</span> not_green_keywords<span class="sc">$</span>DE, <span class="at">freq =</span> not_green_keywords<span class="sc">$</span>Freq, <span class="at">min.freq =</span> <span class="dv">1</span>, <span class="at">max.words=</span><span class="dv">50</span>, <span class="at">random.order=</span><span class="cn">FALSE</span>, <span class="at">scale=</span><span class="fu">c</span>(<span class="fl">1.5</span>,<span class="fl">0.25</span>), <span class="at">rot.per=</span><span class="fl">0.35</span>, <span class="at">colors =</span> <span class="fu">piratepal</span>(<span class="st">"xmen"</span>)) <span class="do">##Just the TOP 50</span></span></code><button title="Copy to Clipboard" class="code-copy-button"><i class="bi"></i></button></pre></div>
+<span id="cb22-6"><a href="#cb22-6" aria-hidden="true" tabindex="-1"></a>wourdcloud_just_not_green_keywords<span class="ot">&lt;-</span> <span class="fu">wordcloud</span>(<span class="at">words =</span> not_green_keywords<span class="sc">$</span>DE, <span class="at">freq =</span> not_green_keywords<span class="sc">$</span>Freq, <span class="at">min.freq =</span> <span class="dv">1</span>, <span class="at">max.words=</span><span class="dv">10</span>, <span class="at">random.order=</span><span class="cn">FALSE</span>, <span class="at">scale=</span><span class="fu">c</span>(<span class="fl">1.5</span>,<span class="fl">0.25</span>), <span class="at">rot.per=</span><span class="fl">0.35</span>, <span class="at">colors =</span> <span class="fu">piratepal</span>(<span class="st">"xmen"</span>)) <span class="do">##Just the TOP 10</span></span></code><button title="Copy to Clipboard" class="code-copy-button"><i class="bi"></i></button></pre></div>
 <div class="cell-output-display">
 <p><img src="Word-Clouds_files/figure-html/unnamed-chunk-36-1.png" class="img-fluid" width="672"></p>
 </div>
